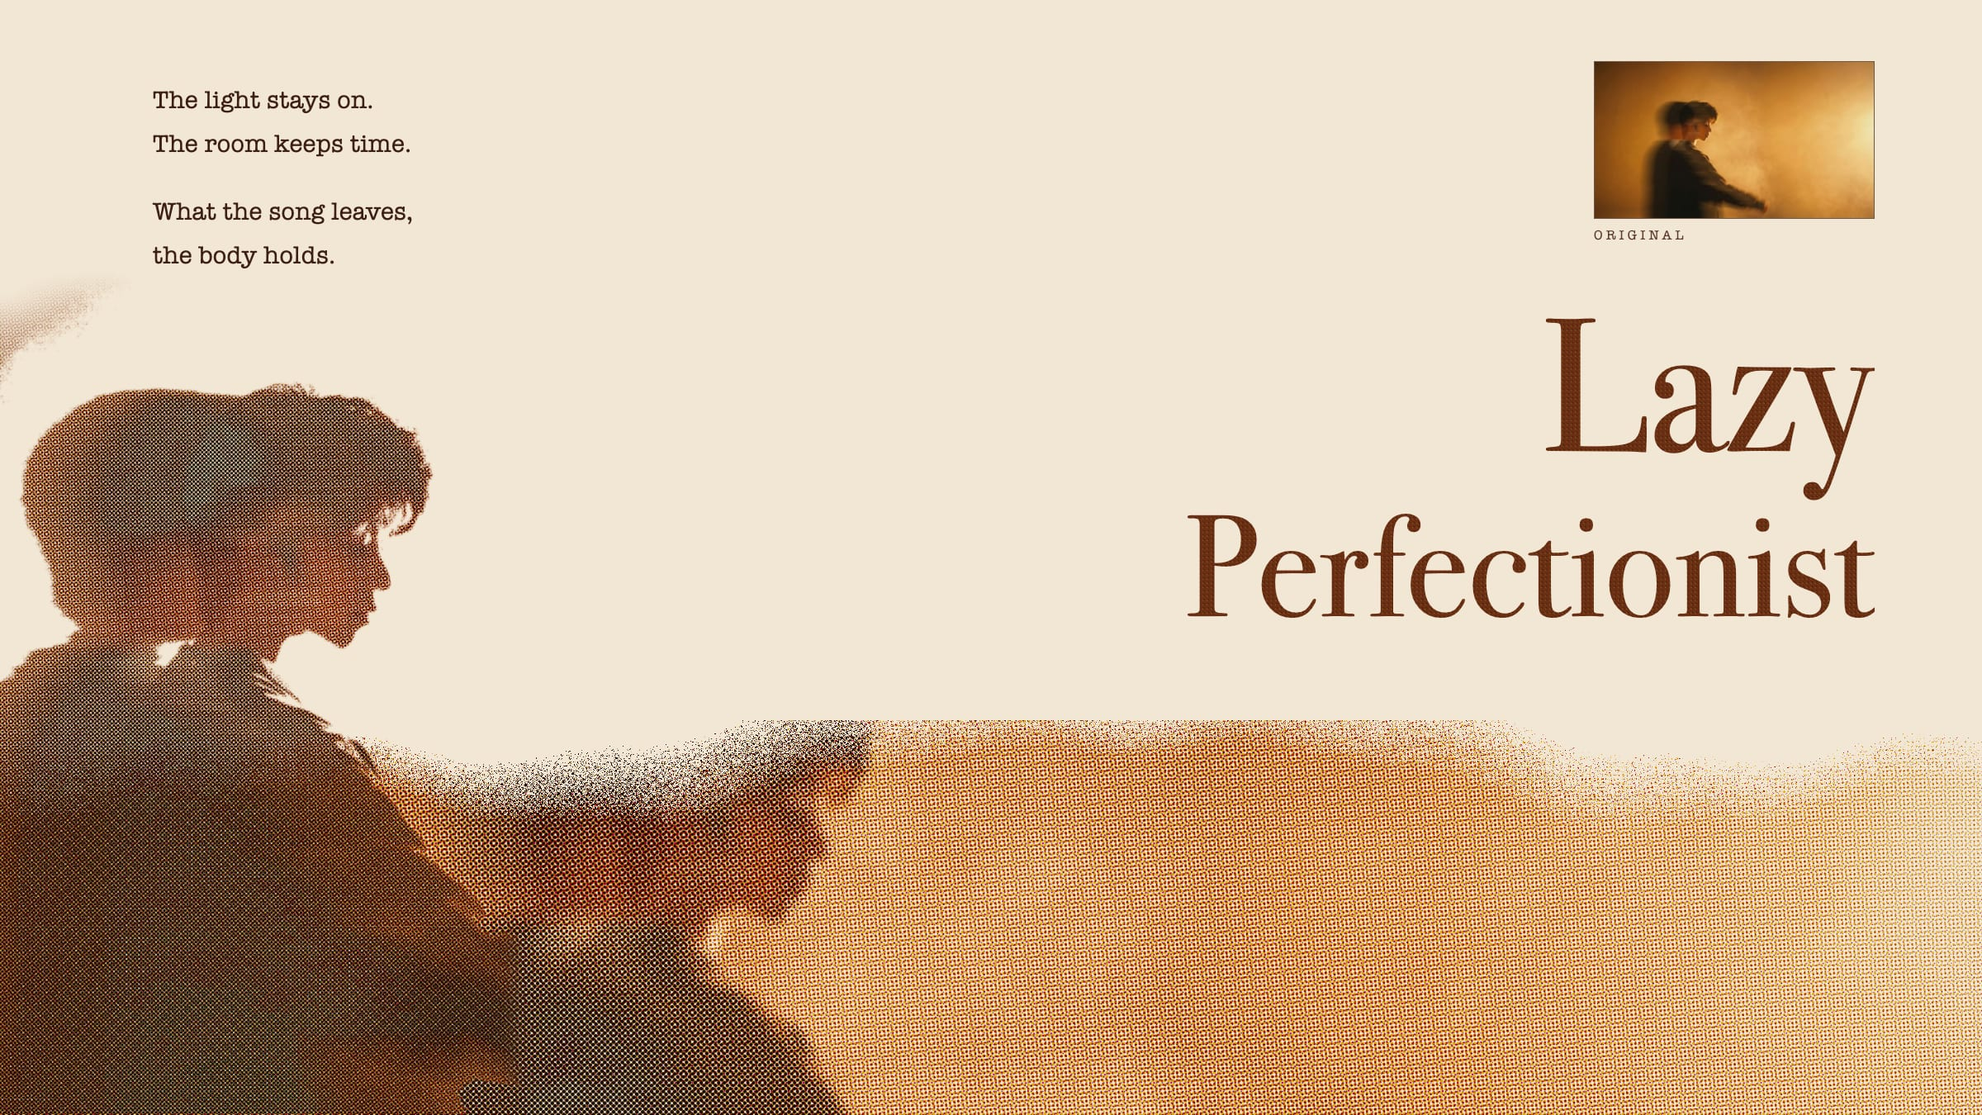
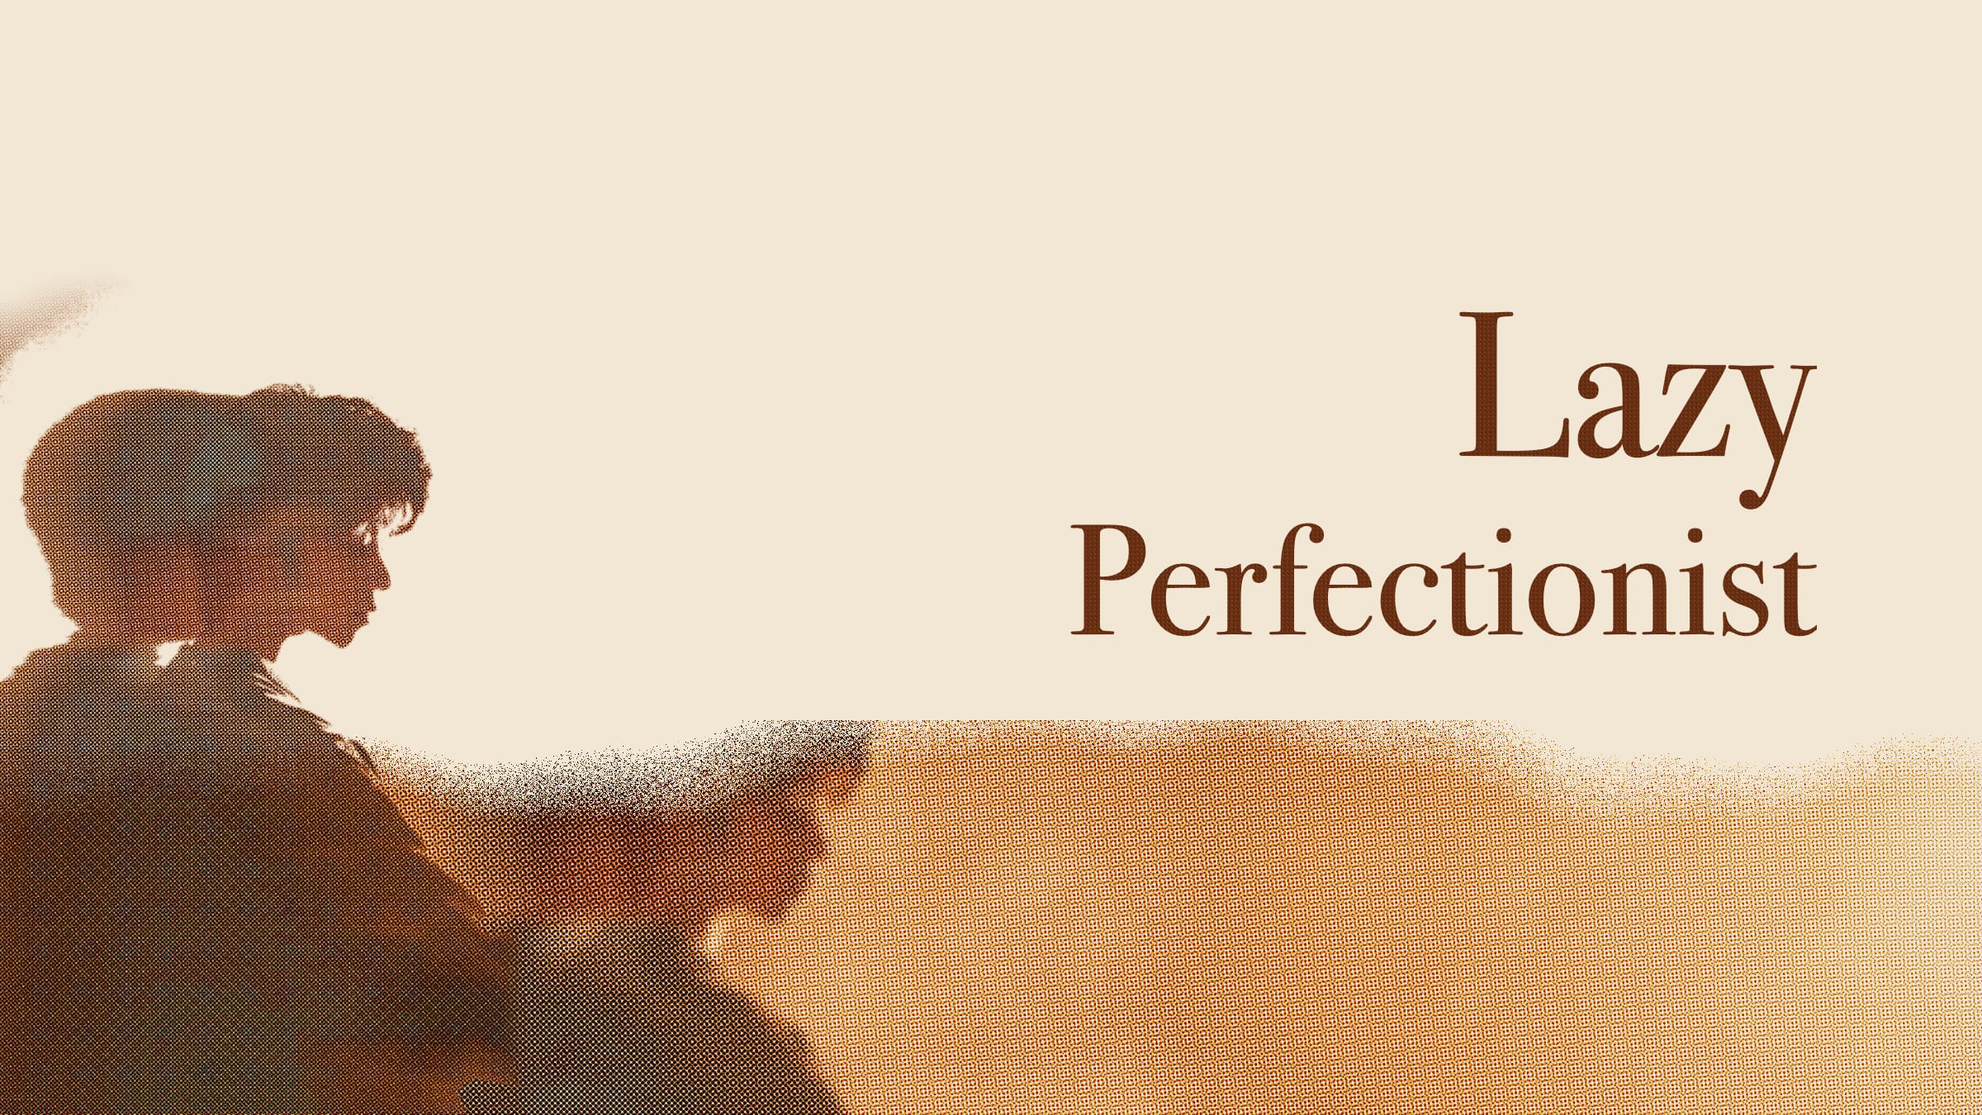
Make the fold full-bleed
The hero print now fills the fold edge to edge: the anchor is the fold,
both plates are object-cover, and the crop follows whatever aspect the
window has instead of laying a centred sheet inside it.

Both plates were struck again without the margin copy — the couplets and
the ORIGINAL thumbnail are gone — and the name was re-placed (3:4 print
7% smaller, wide plate's right edge in from 94% to 91.7%) so it survives
the crop at every measured size. The wide plate is anchored right, so a
squarer window trims the figure rather than the wordmark.

diff --git a/tests/e2e/home.spec.ts b/tests/e2e/home.spec.ts
@@ -393,14 +393,14 @@ test.describe('home', () => {
 });
 
 test.describe('poster hero', () => {
-  test('the whole print sits on the fold: no crop, foot on the fold, as large as fits', async ({ page }, testInfo) => {
+  test('the print is full-bleed: it fills the fold edge to edge', async ({ page }, testInfo) => {
     const viewport = testInfo.project.use.viewport ?? { width: 1280, height: 720 };
     const landscape = viewport.width > viewport.height;
     await page.goto('/');
 
     const section = page.getByTestId('hero-section');
     const artwork = page.getByTestId('hero-artwork');
-    // The anchor holds one plate per orientation; only one is displayed.
+    // The anchor holds one plate per screen shape; only one is displayed.
     const plate = artwork.locator('img:visible');
     await expect(plate).toHaveCount(1);
     await expect(plate).toHaveCSS('object-fit', 'cover');
@@ -412,44 +412,46 @@ test.describe('poster hero', () => {
     expect(sectionBox, 'hero section must have a layout box').not.toBeNull();
     expect(artBox, 'hero artwork must have a layout box').not.toBeNull();
 
-    // The whole picture: the plate is laid inside the fold at its own ratio,
-    // 3:4 on a portrait fold and 16:9 on a landscape one, so the composition
-    // — couplets, name, figure, wall — is all on screen.
-    const ratio = landscape ? 16 / 9 : 3 / 4;
-    expect(artBox!.width / artBox!.height, 'the plate keeps its own ratio').toBeCloseTo(ratio, 2);
-    expect(artBox!.width).toBeLessThanOrEqual(sectionBox!.width + 1);
-    expect(artBox!.height).toBeLessThanOrEqual(sectionBox!.height + 1);
+    // The anchor is the fold: no paper margin on any side, so the print
+    // touches the sheet's left and right edges at every width and gives up
+    // its overflow to the crop instead.
+    expect(Math.abs(artBox!.x - sectionBox!.x), 'print reaches the left edge').toBeLessThanOrEqual(1);
+    expect(Math.abs(artBox!.y - sectionBox!.y), 'print starts at the fold').toBeLessThanOrEqual(1);
+    expect(Math.abs(artBox!.width - sectionBox!.width), 'print reaches the right edge').toBeLessThanOrEqual(1);
+    expect(Math.abs(artBox!.height - sectionBox!.height), 'print fills the fold height').toBeLessThanOrEqual(1);
 
-    // The displayed plate is the one for this orientation, and the source has
-    // the same ratio as its box — cover draws every pixel of it.
+    // The plate for this screen shape — 3:4 print on a portrait screen, the
+    // 16:9 strike on a landscape one — and its source is that shape.
     const src = await plate.getAttribute('src');
     if (landscape) {
       expect(src, 'a landscape fold uses the 16:9 plate').toContain('lusg-poster-wide');
     } else {
       expect(src, 'a portrait fold uses the 3:4 print').not.toContain('wide');
     }
-    const natural = await plate.evaluate((img: HTMLImageElement) => [img.naturalWidth, img.naturalHeight]);
-    expect(natural[0] / natural[1], 'the source is uncropped by its box').toBeCloseTo(ratio, 2);
+    const natural = await plate.evaluate((img: HTMLImageElement) => [
+      img.naturalWidth,
+      img.naturalHeight,
+    ]);
+    expect(natural[0] / natural[1], 'the plate is struck at its own ratio').toBeCloseTo(
+      landscape ? 16 / 9 : 3 / 4,
+      2,
+    );
 
-    // As large as the fold allows: the plate's width or height is measured
-    // from the fold's own box, so exactly one of the two dimensions is filled.
-    expect(
-      Math.min(sectionBox!.width - artBox!.width, sectionBox!.height - artBox!.height),
-      'the plate must fill one axis of the fold',
-    ).toBeLessThanOrEqual(1);
+    // Cover trims the overflow: unless the fold happens to have the plate's
+    // exact ratio, the visible picture is a crop of it.
+    const foldRatio = sectionBox!.width / sectionBox!.height;
+    expect(Math.abs(foldRatio - natural[0] / natural[1]), 'the fold is not the plate').toBeGreaterThan(0);
 
-    // Centred across the sheet, and its foot on the fold so no paper margin
-    // sits between the plate and the plates below.
-    expect(
-      Math.abs(artBox!.x + artBox!.width / 2 - (sectionBox!.x + sectionBox!.width / 2)),
-      'plate must be centred',
-    ).toBeLessThanOrEqual(1);
-    expect(
-      Math.abs(artBox!.y + artBox!.height - (sectionBox!.y + sectionBox!.height)),
-      'plate must end on the fold',
-    ).toBeLessThanOrEqual(1);
+    // Landscape plates hug the right edge, so a narrow window trims the
+    // figure rather than the wordmark.
+    if (landscape) {
+      const position = await plate.evaluate(
+        (img) => getComputedStyle(img).objectPosition,
+      );
+      expect(position, 'the wide plate is anchored right').toMatch(/100%|\bright\b/);
+    }
 
-    // The section ends at the fold: the plate is the first screen's subject,
+    // The section ends at the fold: the print is the first screen's subject,
     // starting directly under the announcement bar and header.
     expect(sectionBox!.y, 'fold starts below the chrome').toBeGreaterThan(0);
     expect(
@@ -458,36 +460,52 @@ test.describe('poster hero', () => {
     ).toBeLessThanOrEqual(2);
   });
 
-  test('the plate follows the fold: a phone fills the width with the 3:4 print, a wide screen the height with the 16:9', async ({ page }) => {
-    // The scale follows the fold's own box, not the window's: a phone is
-    // narrower than the print at full height, so the print fills the width; a
-    // 16:9 desktop is wider than the wide plate at full height, so the plate
-    // fills the height and paper takes the sides. Both show the whole picture.
+  test('the fold crops the plate instead of letterboxing it', async ({ page }) => {
+    // Full-bleed means the plate is scaled to cover the fold and cut on the
+    // overflowing axis: a phone's fold is taller than the 3:4 print (sides
+    // trimmed), a 16:9 fold is wider than the wide plate (top and bottom
+    // trimmed). Nothing is ever letterboxed.
     const measure = async (width: number, height: number) => {
       await page.setViewportSize({ width, height });
       await page.goto('/');
+      const artwork = page.getByTestId('hero-artwork');
       const [section, art] = await Promise.all([
         page.getByTestId('hero-section').boundingBox(),
-        page.getByTestId('hero-artwork').boundingBox(),
+        artwork.boundingBox(),
       ]);
-      const plate = page.getByTestId('hero-artwork').locator('img:visible');
-      return { section: section!, art: art!, src: (await plate.getAttribute('src')) ?? '' };
+      const plate = artwork.locator('img:visible');
+      const natural = await plate.evaluate((img: HTMLImageElement) => [
+        img.naturalWidth,
+        img.naturalHeight,
+      ]);
+      const position = await plate.evaluate((img) => getComputedStyle(img).objectPosition);
+      return {
+        section: section!,
+        art: art!,
+        plateRatio: natural[0] / natural[1],
+        position,
+        src: (await plate.getAttribute('src')) ?? '',
+      };
     };
 
     const phone = await measure(390, 844);
-    expect(phone.art.width / phone.art.height, 'a phone holds the print 3:4').toBeCloseTo(3 / 4, 2);
     expect(Math.abs(phone.art.width - phone.section.width)).toBeLessThanOrEqual(1);
-    expect(phone.art.height / phone.section.height, 'a phone leaves paper above the print').toBeLessThan(0.95);
-    expect(Math.abs(phone.art.y + phone.art.height - (phone.section.y + phone.section.height))).toBeLessThanOrEqual(1);
+    expect(Math.abs(phone.art.height - phone.section.height)).toBeLessThanOrEqual(1);
     expect(phone.src).not.toContain('wide');
+    expect(
+      phone.section.width / phone.section.height,
+      'a phone fold is taller than the 3:4 print, so its sides are trimmed',
+    ).toBeLessThan(phone.plateRatio);
 
     const desktop = await measure(1920, 1080);
-    expect(desktop.art.width / desktop.art.height, 'a wide screen holds the plate 16:9').toBeCloseTo(16 / 9, 2);
+    expect(Math.abs(desktop.art.width - desktop.section.width)).toBeLessThanOrEqual(1);
     expect(Math.abs(desktop.art.height - desktop.section.height)).toBeLessThanOrEqual(1);
-    expect(desktop.art.width / desktop.section.width, 'the 16:9 plate leaves only side paper').toBeGreaterThan(0.8);
-    expect(desktop.art.width / desktop.section.width).toBeLessThanOrEqual(1);
-    expect(Math.abs(desktop.art.y + desktop.art.height - (desktop.section.y + desktop.section.height))).toBeLessThanOrEqual(1);
     expect(desktop.src).toContain('lusg-poster-wide');
+    expect(
+      desktop.section.width / desktop.section.height,
+      'a desktop fold is wider than the 16:9 plate, so its top and bottom are trimmed',
+    ).toBeGreaterThan(desktop.plateRatio);
+    expect(desktop.position, 'the wide plate is anchored right').toMatch(/100%|\bright\b/);
   });
 
   test('the page h1 is the band name: the poster carries it for the outline', async ({ page }) => {

diff --git a/src/components/Hero.tsx b/src/components/Hero.tsx
@@ -2,24 +2,20 @@ import Image from "next/image";
 
 import { LINKS } from "@/lib/site";
 
-// The fold is the record's print, whole. Two plates carry it: the 3:4 poster
-// for portrait folds, and a 16:9 plate — struck from the same photograph,
-// halftone and type — for landscape ones. Each is laid on the page's own
-// sheet at the largest size the fold allows, never cropped: as tall as the
-// fold, or as wide as the screen where the screen is narrower than that. The
-// plates' paper samples to the page's paper (--color-paper), so neither has
-// an edge of its own: only the ink sits on the sheet.
+// The fold is the record's print, edge to edge. Two plates carry it: the 3:4
+// poster for portrait screens, and a 16:9 strike of the same photograph,
+// halftone and type for landscape ones. Each is laid on the page's own sheet
+// and cropped by the fold — full-bleed, so the print touches the left and
+// right edges of whatever screen it is read on and gives up its overflow
+// rather than its edges. The plates' paper samples to the page's paper
+// (--color-paper), so the print has no border of its own: only the ink
+// changes where the fold cuts.
 //
-// The print's foot lands on the fold, so the sheets below follow it directly
-// and no paper margin ever sits under the print. On a portrait phone that
-// leaves the print short of the header, with the paper gap above it invisible
-// against the sheet; on a 16:9 screen the plate fills the fold's height.
-//
-// The box is sized in container units because the fold's own height decides
-// the scale: 75cqh is the 3:4 print's width when its height is the fold's
-// height, 177.78cqh is the 16:9 plate's, and 100cqw caps each on screens
-// narrower than that. `hero-print` makes the section the size container for
-// those units.
+// The type sits inside the crop everywhere it is allowed to cut: the name's
+// ink stays within x 18.9–83.3% of the 3:4 print, so the narrowest phone crop
+// trims the figure, not the wordmark, and the wide plate holds it below 91.7%
+// of its width — with `object-right`, a square-ish window crops the figure's
+// left edge and keeps the name whole.
 //
 // The height subtracts the measured chrome: announcement bar + masthead are
 // 166px at phone widths and 131px from md up, so `100svh` minus that is the
@@ -27,7 +23,7 @@ import { LINKS } from "@/lib/site";
 export default function Hero() {
   return (
     <section
-      className="hero-print relative flex h-[calc(100svh-166px)] items-end justify-center overflow-hidden md:h-[calc(100svh-131px)]"
+      className="relative h-[calc(100svh-166px)] overflow-hidden md:h-[calc(100svh-131px)]"
       data-testid="hero-section"
     >
       <h1 className="sr-only" data-testid="hero-title">
@@ -39,13 +35,12 @@ export default function Hero() {
         target="_blank"
         rel="noopener noreferrer"
         aria-label="Listen to LUSG on Spotify"
-        className="group relative block aspect-[3/4] w-[min(100cqw,75cqh)] outline-none landscape:aspect-video landscape:w-[min(100cqw,177.78cqh)] after:pointer-events-none after:absolute after:inset-1 after:border-2 after:border-ember after:opacity-0 after:content-[''] focus-visible:after:opacity-100"
+        className="group absolute inset-0 block outline-none after:pointer-events-none after:absolute after:inset-1 after:border-2 after:border-ember after:opacity-0 after:content-[''] focus-visible:after:opacity-100"
         data-testid="hero-artwork"
       >
-        {/* Portrait: the poster. Its box is the print's own 3:4, so cover is
-            the whole picture at full size. `sizes` keeps the plate that is not
-            being shown — the 16:9 one sits in the same anchor — from fetching
-            more than a thumbnail. */}
+        {/* Portrait: the poster, cropped by the fold's own aspect. `sizes`
+            keeps the plate that is not being shown — the 16:9 one sits in the
+            same anchor — from fetching more than a thumbnail. */}
         <Image
           src="/assets/img/lusg-poster.jpg"
           alt=""
@@ -55,24 +50,29 @@ export default function Hero() {
           className="object-cover landscape:hidden"
         />
 
-        {/* Landscape: the wide plate, a 16:9 strike of the same print. */}
+        {/* Landscape: the wide plate. Anchored right so the crop takes the
+            figure's edge, never the name. */}
         <Image
           src="/assets/img/lusg-poster-wide.jpg"
           alt=""
           fill
           priority
           sizes="(orientation: portrait) 0px, 100vw"
-          className="hidden object-cover landscape:block"
+          className="hidden object-cover object-right landscape:block"
         />
 
         {/* The print is the link, so it needs to say so: the same ember
-            stamp as the bellyband, set on the print's foot. Its text starts
-            the link's accessible name, so voice control can say what it
-            sees. */}
-        <span className="absolute bottom-6 left-6 inline-block bg-ember px-3 py-2 font-mono text-[11px] uppercase tracking-[0.16em] text-ember-ink md:bottom-8 md:left-10 md:text-xs">
-          Listen to LUSG{" "}
-          <span aria-hidden="true">↗</span>
-        </span>
+            stamp as the bellyband, set on the print's foot and aligned with
+            the measure below it. Its text starts the link's accessible name,
+            so voice control can say what it sees. */}
+        <div className="pointer-events-none absolute inset-x-0 bottom-6 md:bottom-8">
+          <div className="mx-auto flex max-w-[90rem] px-6 md:px-10">
+            <span className="inline-block bg-ember px-3 py-2 font-mono text-[11px] uppercase tracking-[0.16em] text-ember-ink md:text-xs">
+              Listen to LUSG{" "}
+              <span aria-hidden="true">↗</span>
+            </span>
+          </div>
+        </div>
       </a>
     </section>
   );

diff --git a/src/app/globals.css b/src/app/globals.css
@@ -92,12 +92,4 @@
     );
     background-size: 5px 5px;
   }
-
-  /* The hero's print is sized from the fold, not the window: this makes the
-     section the size container the plates' 75cqh (3:4) and 177.78cqh (16:9)
-     widths are measured against, so a plate can be as tall as the fold allows
-     without hard-coding the chrome subtraction twice. */
-  .hero-print {
-    container-type: size;
-  }
 }

diff --git a/changelogs/2026-11-05_the-fold-goes-full-bleed.md b/changelogs/2026-11-05_the-fold-goes-full-bleed.md
@@ -1,0 +1,106 @@
+---
+title: 2026-11-05 - The fold goes full-bleed
+description: The hero print now fills the fold edge to edge on every screen. Both plates were struck again without the margin copy — no couplets, no ORIGINAL thumbnail — and the name was placed to survive the crop at any window size.
+commit: pending
+author: Samuel Lee
+date: 2026-11-05
+category: 🎨 Design
+impact: Home hero
+---
+
+# 📅 2026-11-05 - The Fold Goes Full-Bleed
+
+**Author**: Samuel Lee
+**Category**: 🎨 Design
+
+## 🎯 Overview
+
+Showing the whole print on the fold left the print as an object — a
+centred sheet with margins in it, couplets in the top-left, the source
+photograph boxed and labelled `ORIGINAL` in the top-right, paper around it
+all. On a phone that meant a picture with printed margins inside a page
+with margins outside it: two frames doing one job.
+
+Now the picture is the screen. The artwork's box is the fold itself, the
+plate is scaled with `object-cover` and cropped by whatever the fold's
+aspect happens to be, and the plates themselves were re-struck without the
+margin copy: the couplets and the `ORIGINAL` thumbnail are gone, so the
+sheet carries the photograph, the wall, and the name, nothing else.
+
+## 🖨 The plates, re-struck
+
+Both plates were rendered again from the same source
+(`feature/website-redesign:public/assets/img/hero-background.jpg`), same
+luminance matte, same rotated CMYK halftone, same wall band. Only the
+margins changed.
+
+| Plate | Size | Bytes | Name |
+| --- | --- | --- | --- |
+| `lusg-poster.jpg` | 1800×2400 | 862KB | Lazy 286px / Perfectionist 244px |
+| `lusg-poster-wide.jpg` | 2400×1350 | 599KB | Lazy 250px / Perfectionist 190px |
+
+Three changes to the composition:
+
+- **Margin copy removed.** The couplets ("The light stays on. / The room
+  keeps time. / What the song leaves, / the body holds.") and the labelled
+  `ORIGINAL` print were set in the sheet's corners. At full bleed the crop
+  cuts the corners first — on a phone they would be half off-screen — so
+  they left the plates rather than became accidents.
+- **The name sits inside the crop.** It is the one thing that must survive
+  every window, so its block was re-placed: on the 3:4 print the ink now
+  runs x 18.9–83.3% (a 7% reduction from the print's scale, so the narrowest
+  phone crop still gives it ~30px of air at each edge instead of 10px), and
+  on the wide plate the right edge moved in from 94% to 91.7% — inside a
+  3:2 fold's crop, which is the tightest the wide plate ever gets.
+- **Paper unchanged.** Both sample `#f2e7d5` at every margin, exactly
+  `--color-paper`, so the fold has no edge except where its ink ends.
+
+## 🧭 The hero
+
+`Hero.tsx` loses its aspect box and its container units. The anchor is
+`absolute inset-0` inside the fold; both plates are `fill` +
+`object-cover`, one shown per screen shape with the same
+`portrait:`/`landscape:` variants and orientation-scoped `sizes` as before
+(the plate that is not shown still costs a 640w thumbnail, ~13–75KB).
+
+- **The wide plate is anchored right** (`object-right`). When a window is
+  squarer than 16:9 the crop takes the figure's left edge, never the
+  wordmark's right.
+- **The stamp moved to the measure.** "Listen to LUSG ↗" now sits in an
+  `inset-x-0` band with the page's own `max-w-[90rem] px-6 md:px-10`, so it
+  lines up with the masthead and the plate labels below instead of the
+  print's foot. It is `pointer-events-none`; the fold remains one link.
+- **`hero-print` is gone.** Nothing is measured in `cqw`/`cqh` any more, so
+  the section's `container-type: size` came out with it.
+
+Cropped, not letterboxed — the visible window in plate coordinates:
+
+| Viewport | Fold | Fold ratio | Plate | Visible |
+| --- | --- | --- | --- | --- |
+| 1920×1080 | 1920×949 | 2.02 | 16:9 | y 6.1–93.9% |
+| 1366×768 | 1366×637 | 2.14 | 16:9 | y 8.5–91.5% |
+| 1024×768 | 1024×637 | 1.61 | 16:9 | x 4.8–95.2% |
+| 844×390 | 844×259 | 3.26 | 16:9 | y 22.7–77.3% |
+| 768×1024 | 768×893 | 0.86 | 3:4 | y 6.4–93.6% |
+| 390×844 | 390×678 | 0.58 | 3:4 | x 11.7–88.3% |
+| 360×800 | 360×634 | 0.57 | 3:4 | x 12.2–87.8% |
+
+The name's ink stays inside every one of those windows.
+
+## 🧪 Verified
+
+- Rendered both plates and measured them in the app at 1920×1080,
+  1366×768, 1024×768, 844×390, 768×1024, 390×844 and 360×800: artwork box
+  equal to the fold on all four sides, `object-fit: cover`, the matching
+  plate fetched per screen shape, name fully visible at every size, paper
+  `#f2e7d5` sampled from the encoded JPEGs.
+- `npx tsc --noEmit`, `npm run lint`, `npm run lint:css` — clean.
+- `npm run test:pipeline` — **59 passed, 0 failed** (4 skipped, chromium +
+  firefox + webkit).
+- `npm run test:mobile` — **21 passed, 0 failed**.
+
+## 🔁 Built on
+
+`changelogs/2026-11-05_the-fold-gets-a-wide-plate.md` (7cfdfc3): the two
+plates and their type layer are still the ones it describes; this changes
+where they stop being printed and how they meet the fold.
